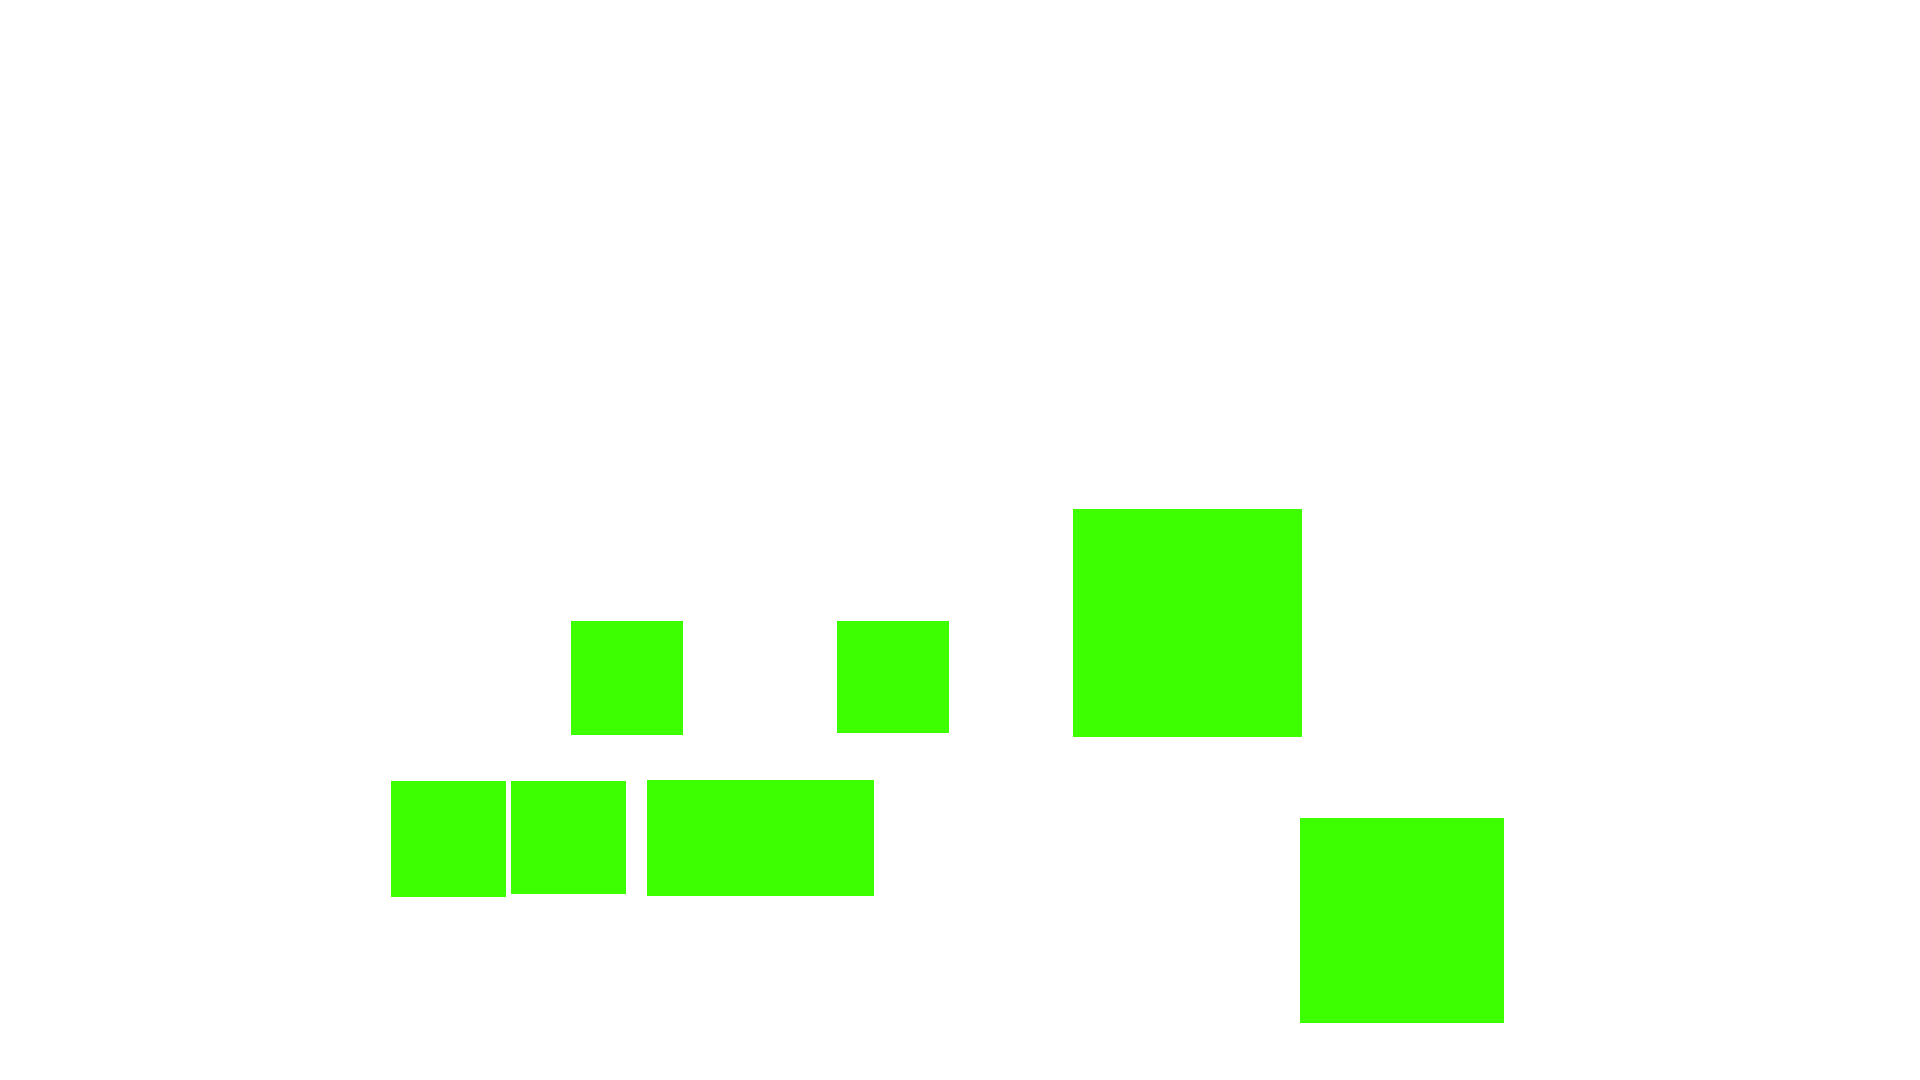
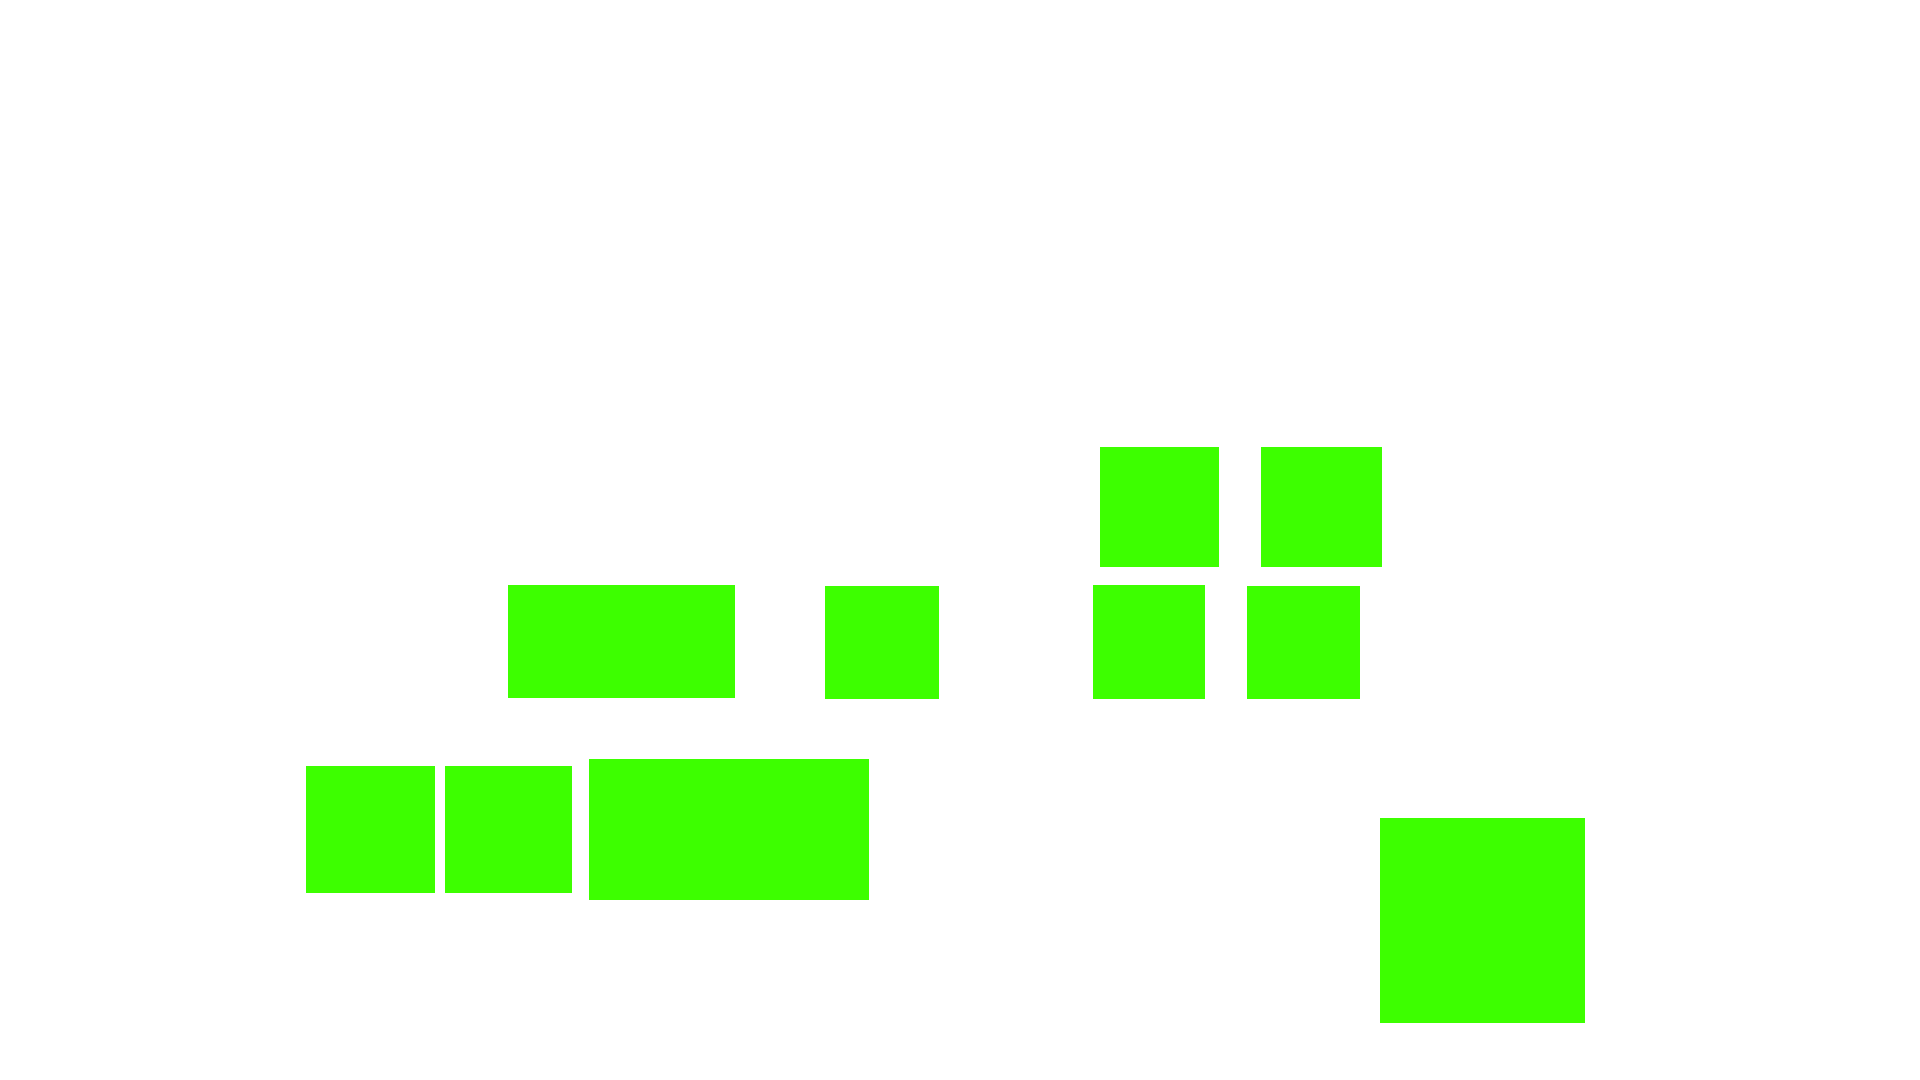
new zones + manual pink + inv place params

diff --git a/src/mouse_human/scripts/mouse_human.py b/src/mouse_human/scripts/mouse_human.py
@@ -88,13 +88,17 @@ if DOMAIN_NAME=="stack_empiler":
     create_zone(5, 1.55, 0.46,  0.95, ["PASS"])
 
 elif DOMAIN_NAME=="stack_empiler_1":
-    create_zone(0, 2.5, 0.05, 1.99,     ["place"])
-    create_zone(1, 2.2, -0.03, 1.75,    ["pick('w1',)"])
-    create_zone(2, 2.2, -0.15, 1.75,    ["drop"])
-    create_zone(3, 2.25, -0.225, 1.7,   ["pick('g2',)"])
-    create_zone(4, 2.25, -0.172, 1.7,   ["pick('b2',)"])
-    create_zone(6, 2.25, -0.088, 1.7,   ["pick('p1',)"])
-    create_zone(5, 2.5, 0.11, 1.9,      ["PASS"])
+    create_zone(0,  2.0, 0.084, 1.57,       ["place('l1"])
+    create_zone(1,  2.0, 0.152, 1.57,       ["place('l2"])
+    create_zone(6,  2.05, 0.11, 1.635,      ["place('l3"])
+    create_zone(2,  2.0, 0.084, 1.64,       ["place('l4"])
+    create_zone(3,  2.0, 0.152, 1.64,       ["place('l5"])
+    create_zone(4,  2.0, -0.035, 1.57,      ["pick('w1',)"])
+    create_zone(5,  2.0, -0.15, 1.57,       ["drop"])
+    create_zone(7,  2.1, -0.235, 1.55,      ["pick('g2',)"])
+    create_zone(8,  2.1, -0.18, 1.55,       ["pick('b2',)"])
+    create_zone(13, 2.15, -0.083, 1.595,    ["pick('p1',)"])
+    create_zone(9,  2.3, 0.13, 1.7,         ["PASS"])
 
 elif DOMAIN_NAME=="classic":
     create_zone(0, 1.12, 0.30, 1.03,    ["place"])
@@ -232,7 +236,7 @@ def main():
         print(f"zones spawned")
 
     else:
-        nb_zones = 7
+        nb_zones = 13
         for i in range(nb_zones+1):
             f = open(f'/home/afavier/new_exec_sim_ws/src/simulator/worlds/z{i}.sdf','r')
             sdff = f.read()

diff --git a/src/exec_automaton/scripts/exec_automaton.py b/src/exec_automaton/scripts/exec_automaton.py
@@ -708,8 +708,8 @@ def compute_msg_action_stack_empiler(a):
         msg.obj_name=a.parameters[0]
     elif "place"==a.name:
         msg.type=Action.PLACE_OBJ_NAME
-        msg.obj_name=a.parameters[0]
-        msg.location=a.parameters[1]
+        msg.location=a.parameters[0]
+        msg.obj_name=a.parameters[1]
     elif "push"==a.name:
         msg.type=Action.PUSH
     elif "open_box"==a.name:
